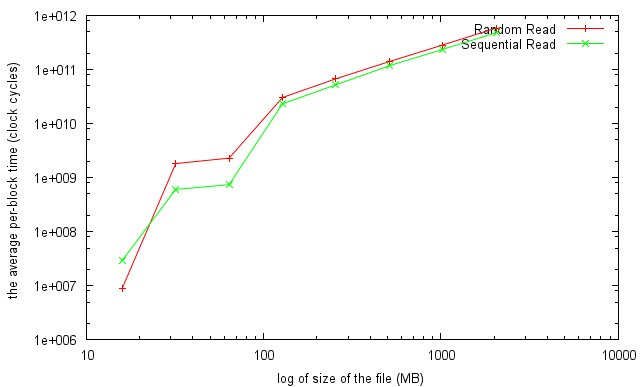
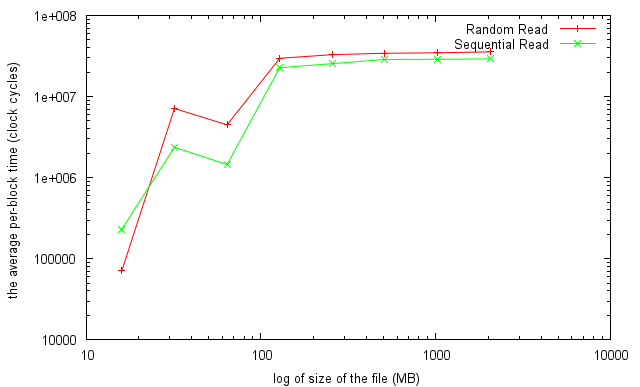
removal of the table for file read time and corrected the image for it

diff --git a/report/src/experiments-filesystem.tex b/report/src/experiments-filesystem.tex
@@ -150,16 +150,6 @@ about 55 random IOPS.
 In our test program, each read is 2048 bits, the worst result should be about 110 kB/s.
 
 \paragraph{Results}
-\begin{table}[h]
-\begin{center}
-\begin{tabular}{| l | l | l | l | l |}
-\hline
-Operation & Hardware cost & Software cost & Prediction & Measured \\
-\hline
-\end{tabular}
-\end{center}
-\caption{File read time\label{tab:file-read-time}}
-\end{table}
 
 \begin{figure}[h]
 \begin{center}
@@ -170,7 +160,7 @@ Operation & Hardware cost & Software cost & Prediction & Measured \\
 \end{figure}
 
 
-According to the result shown in table \ref{tab:file-read-time} and figure \ref{fig:file-access}, we
+According to the result shown in figure \ref{fig:file-access}, we
 
 
 \paragraph{Success of Methodology}
